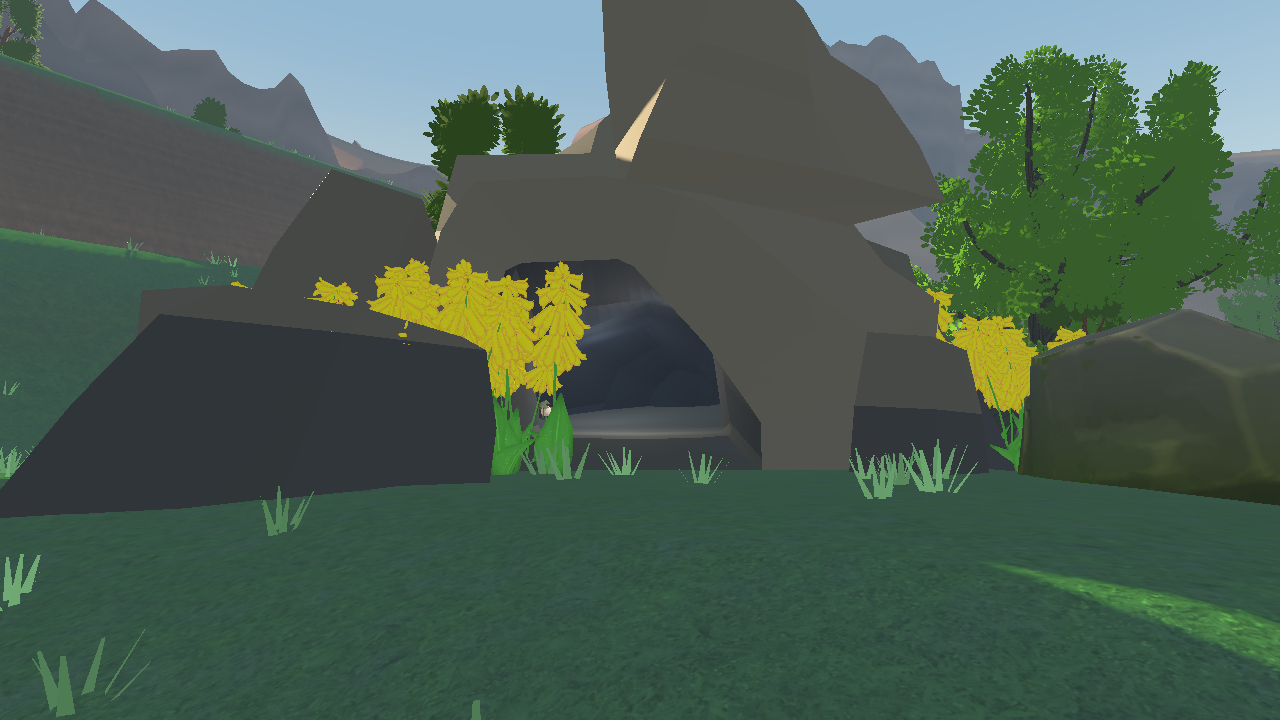
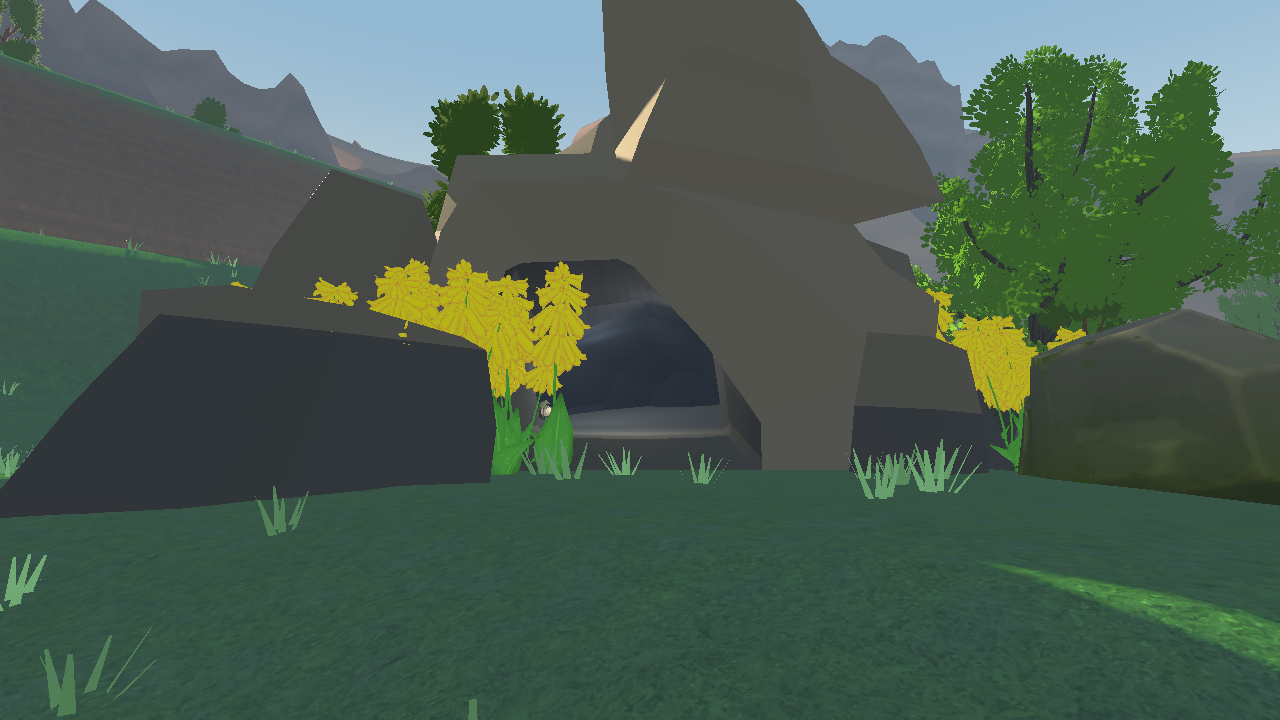
docs(world_v2): quatre diagnostics extérieurs de la tranche 2 + A/B
Capturés depuis l'arbre propre : manifestes au commit 44e9200,
repo_dirty:false ; recapture après le correctif de fougères 1fb57d3.

Quatre diagnostics comme demandé — approche joueur, gros plan du seuil,
lecture des masses depuis l'approche réelle, silhouette isolée — plus les
deux A/B directs R2a-3.1 → tranche 2 sur l'approche et le seuil.

TRANCHE2.md porte le journal complet des contrôles verts, le balayage du
vrillage qui a localisé le repli, et un aveu : les masses jaunes devant la
bouche ne sont PAS les fougères, contrairement à ce que j'ai affirmé au
tour précédent. Trois mesures le montrent — semis gelé sans rien à moins de
24 m, fougères masquées sans que l'image change, énumération des maillages
visibles qui ne les contient pas. L'exigence « les fleurs ne masquent plus
le tiers inférieur » n'est donc pas satisfaite.

Aucun verdict artistique n'est prononcé.

Claude-Session: https://claude.ai/code/session_01H1fHocGwj11SthNfNZ9hxk

diff --git a/evidence/world_v2/v2_3_r2a/grotte/tranche2/TRANCHE2.md b/evidence/world_v2/v2_3_r2a/grotte/tranche2/TRANCHE2.md
@@ -1,0 +1,126 @@
+# Grotte — R2a-3.2 tranche 2 : extérieur fusionné
+
+**Commit prouvé : `44e92008db6715e6e30cf32779dc43675949356c`** · `repo_dirty: false`
+(manifestes `manifest.json` et `manifest_silhouettes_grotte_t2.json`).
+Scène `res://scenes/world_v2/WorldV2.tscn`, Forward+, llvmpipe.
+Le correctif de fougères qui suit est au commit `1fb57d3` ; les quatre
+diagnostics ont été recapturés depuis cet arbre propre.
+
+Ce document ne contient **aucun verdict artistique**. Il livre les quatre
+diagnostics extérieurs demandés, les deux A/B, et les journaux de contrôle.
+
+---
+
+## Les deux corrections demandées
+
+**`controle_composition` s'exécute enfin.** Il était annoncé comme
+télémétrie imprimée sans être appelé nulle part — du code mort qui mentait
+sur ce qu'il faisait. Il tourne maintenant une fois sur la coque et les onze
+masses, avant l'union, sans aucune condition bloquante.
+
+**`PENETRATION_MIN_M` est devenu `RECOUVREMENT_AABB_MIN_M`.** Il ne mesurait
+aucune profondeur de matière : deux volumes peuvent partager 0,50 m de boîte
+en se touchant par un coin, et c'est précisément ce qui a fait rendre deux
+îlots à l'union. Il est présenté comme préfiltre, et la preuve de solidarité
+est écrite dans le code comme la conjonction des cinq mesures exigées.
+
+---
+
+## Le repli, corrigé à la source
+
+Aucun anneau de cavité ne se repliait dans son plan — les neuf stations ont
+été vérifiées une à une. Le croisement était **entre stations**, colonnes 1
+et 54 de la bande 7→8, causé par le vrillage de la grille de facettes, qui
+s'accumule le long de l'axe (0,23 rad × 8 = 1,84 rad, soit deux facettes et
+demie). Balayage complet :
+
+| vrillage (rad/station) | croisements |
+|---:|---:|
+| 0,23 | 2 |
+| 0,18 | 0 |
+| 0,14 | **1** |
+| 0,10 | 0 |
+| 0,06 | 0 |
+| 0,03 | 0 |
+| 0,00 | 0 |
+
+Le phénomène est **non monotone** : 0,18 ne passe que par chance. Valeur
+retenue **0,10**, au milieu d'un palier de zéros.
+
+Le défaut n'a pas migré : le contrôle d'auto-intersection tourne désormais
+sur **toutes les sources avant l'union**, et il est vert.
+
+`EpauleOuest` effleurait encore la jupe enterrée : deux faces se croisaient
+dans la sortie du booléen alors que toutes les sources étaient valides. Elle
+est enfoncée de 0,50 m pour que l'intersection soit transversale.
+
+---
+
+## Journal des contrôles, chaîne verte, RC = 0
+
+```
+onze masses degagees de la cavite : 0,47 a 1,25 m (minimum exige 0,35)
+epaisseur 0,92 m en paroi, 0,74 m en collerette (minimums 0,80 / 0,60)
+  mesuree AVANT union : l'ordre des sommets qui separe les deux peaux
+  n'existe plus apres un booleen, et la mesure sur l'enveloppe seule est
+  un minorant valide puisque l'union ne peut qu'eloigner la surface
+solidarite : 15 paires en INTERSECTION REELLE de faces
+sources    : aucune auto-intersection avant union
+union      : une seule composante connexe
+auto-intersection de l'union : aucune paire de faces croisees
+fermeture  : 0 arete de bord, 0 non-manifold, volume 717,6 m3
+gabarit    : capsule r=0,45 h=1,85 aux 7 stations du chemin
+aucun jour : 25 rayons verticaux, croisements pairs et >= 2
+sol        : -0,039 seuil · 0,185 salle · 0,386 niche · 0,510 voisin
+```
+
+Filets de lieux : **8 réussis, 0 échoué**.
+`gltf_inspect` : **VALIDE** — 2 nœuds, 4 904 triangles, 15,0 × 11,0 × 15,8 m.
+
+Télémétrie de composition des **volumes sources** (ne bloque rien ; l'union
+les fond ensuite en un seul maillage) : enveloppe 79,9 %, puis Contrefort
+3,0 %, EpauleOuest 2,2 %, DosAlcove 2,2 %, Couronne 1,8 %, Surplomb 1,8 %,
+EpauleNordEst 1,8 %, BlocPiedOuest 1,8 %, Eperon 1,5 %, MolaireEst 1,5 %,
+BlocPiedSud 1,2 %, EbouliEst 1,2 %.
+
+---
+
+## Les quatre diagnostics
+
+| fichier | vue |
+|---|---|
+| `t2_02_approche_joueur.png` | approche joueur, caméra réelle |
+| `t2_03_gros_plan_seuil.png` | gros plan du seuil |
+| `t2_07_trois_masses.png` | lecture des masses depuis l'approche réelle |
+| `silhouette_grotte_t2_000.png` | silhouette isolée, azimut 0° |
+
+A/B direct R2a-3.1 → tranche 2 : `AB_approche.png`, `AB_seuil.png`.
+
+---
+
+## Ce que je n'ai pas résolu, et que je ne masque pas
+
+**Les masses jaunes devant la bouche ne sont toujours pas identifiées, et
+elles ne sont PAS ce que j'ai annoncé au tour précédent.** Trois mesures
+concordantes :
+
+1. la sonde de semis gelé compte 810 cellules, 0 sans plan de plantation, et
+   ne trouve **aucun objet floral à moins de 24 m** de la bouche ;
+2. j'ai déplacé les deux `Fern_1` du lieu, puis **masqué les trois Fern** de
+   la scène : les masses jaunes restent, au pixel près ;
+3. une énumération de tous les `GeometryInstance3D` visibles, triée par
+   distance à l'œil de la caméra d'approche, ne les contient pas — les plus
+   proches sont deux `Fern_1` à 8,4 et 10,1 m, puis des `RockPath` à 11 m.
+
+J'avais conclu au tour précédent que c'étaient les fougères du lieu. **La
+mesure me contredit, et je le dis avant qu'on me le demande.** L'exigence
+« les fleurs ne masquent plus le tiers inférieur de l'entrée » n'est donc
+**pas satisfaite**, et la cause reste à trouver.
+
+Un test intermédiaire a été écarté comme invalide : masquer le lieu puis
+capturer avec une caméra créée à la volée. La caméra du joueur reprend la
+main pendant la construction du monde, et l'image obtenue montrait un autre
+endroit. Seul `capture_poi_batch` garantit le point de vue.
+
+Aucun de ces chiffres n'est une mesure de performance : llvmpipe rend en
+logiciel.
